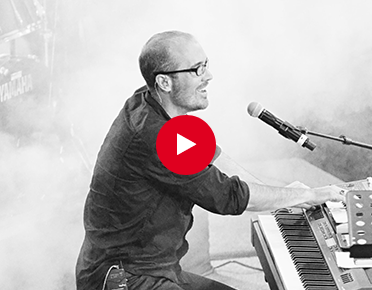
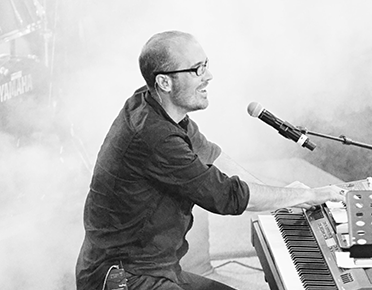
bug fixes end

Changed region(s): [[0.414, 0.3724, 0.5914, 0.6207]]

diff --git a/index.html b/index.html
@@ -177,7 +177,9 @@
                     <div class="nav">
                         <a href="#" class="btn-nav-left"><span class="arrow-left"></span></a>
                         <a href="#" class="btn-nav-right"><span class="arrow-right"></span></a>
-                        <img src="assets/img/photo-video.png" alt="photo-video">
+                        <iframe width="400" height="315" src="https://www.youtube.com/embed/5DBuIhr1Id4"
+                                frameborder="0" allow="accelerometer; autoplay; encrypted-media; gyroscope;
+                                picture-in-picture" allowfullscreen></iframe>
                     </div>
                 </div>
             </div>
@@ -207,18 +209,18 @@
                 </div>
                 <img class="player" src="assets/img/player.png" alt="player">
                 <ol class="popular-sonds-list">
-                    <li class="songs-item">My heart is dancing</li>
-                    <li class="songs-item">Good day</li>
-                    <li class="songs-item">Life for rent</li>
-                    <li class="songs-item">Hello It’s me</li>
-                    <li class="songs-item">My heart is dancing</li>
-                    <li class="songs-item">Good day</li>
-                    <li class="songs-item">Life for rent</li>
-                    <li class="songs-item">Hello It’s me</li>
-                    <li class="songs-item">My heart is dancing</li>
-                    <li class="songs-item">Good day</li>
-                    <li class="songs-item">Life for rent</li>
-                    <li class="songs-item">Hello It’s me</li>
+                    <li class="songs-item"><a href="#">My heart is dancing</a></li>
+                    <li class="songs-item"><a href="#">Good day</a></li>
+                    <li class="songs-item"><a href="#">Life for rent</a></li>
+                    <li class="songs-item"><a href="#">Hello It’s me</a></li>
+                    <li class="songs-item"><a href="#">My heart is dancing</a></li>
+                    <li class="songs-item"><a href="#">Good day</a></li>
+                    <li class="songs-item"><a href="#">Life for rent</a></li>
+                    <li class="songs-item"><a href="#">Hello It’s me</a></li>
+                    <li class="songs-item"><a href="#">My heart is dancing</a></li>
+                    <li class="songs-item"><a href="#">Good day</a></li>
+                    <li class="songs-item"><a href="#">Life for rent</a></li>
+                    <li class="songs-item"><a href="#">Hello It’s me</a></li>
                 </ol>
             </div>
             <div class="instagram-feed">

diff --git a/src/sass/pages/_home.scss b/src/sass/pages/_home.scss
@@ -224,7 +224,6 @@
   font-family: $title-font;
   font-size: 32px;
   font-weight: 500;
-  line-height: 20px;
   text-transform: uppercase;
   margin: 0 0 20px;
 }
@@ -246,6 +245,11 @@
   line-height: 30px;
 }
 
+@media (max-width: 768px) {
+  .our-founder-bg {
+    padding: 30px;
+  }
+}
 //............................................SONGS-INSTAGRAM
 
 
@@ -287,6 +291,10 @@
     font-weight: 400;
     line-height: 40px;
     border-bottom: 1px solid #999999;
+
+      a {
+        color: #333333;
+      }
     }
 
 
@@ -298,6 +306,13 @@
     .instagram-feed-heading {
       text-align: center;
     }
+    .instagram-feed {
+      text-align: center;
+
+        .photo {
+          margin: 20px 0;
+        }
+    }
   }
 
     .photo {
@@ -308,6 +323,7 @@
 @media (max-width: 1200px) {
   .songs-instagram-box {
     display: block;
+    padding: 0;
   }
 }
 
@@ -357,6 +373,12 @@
     img {
       margin-right: 10px;
     }
+  }
+}
+
+@media (max-width: 480px) {
+  .our-official-apps-bg {
+    padding: 10px;
   }
 }
 

diff --git a/src/sass/base/_basic.scss b/src/sass/base/_basic.scss
@@ -47,4 +47,3 @@ li {
 }
 
 
-
